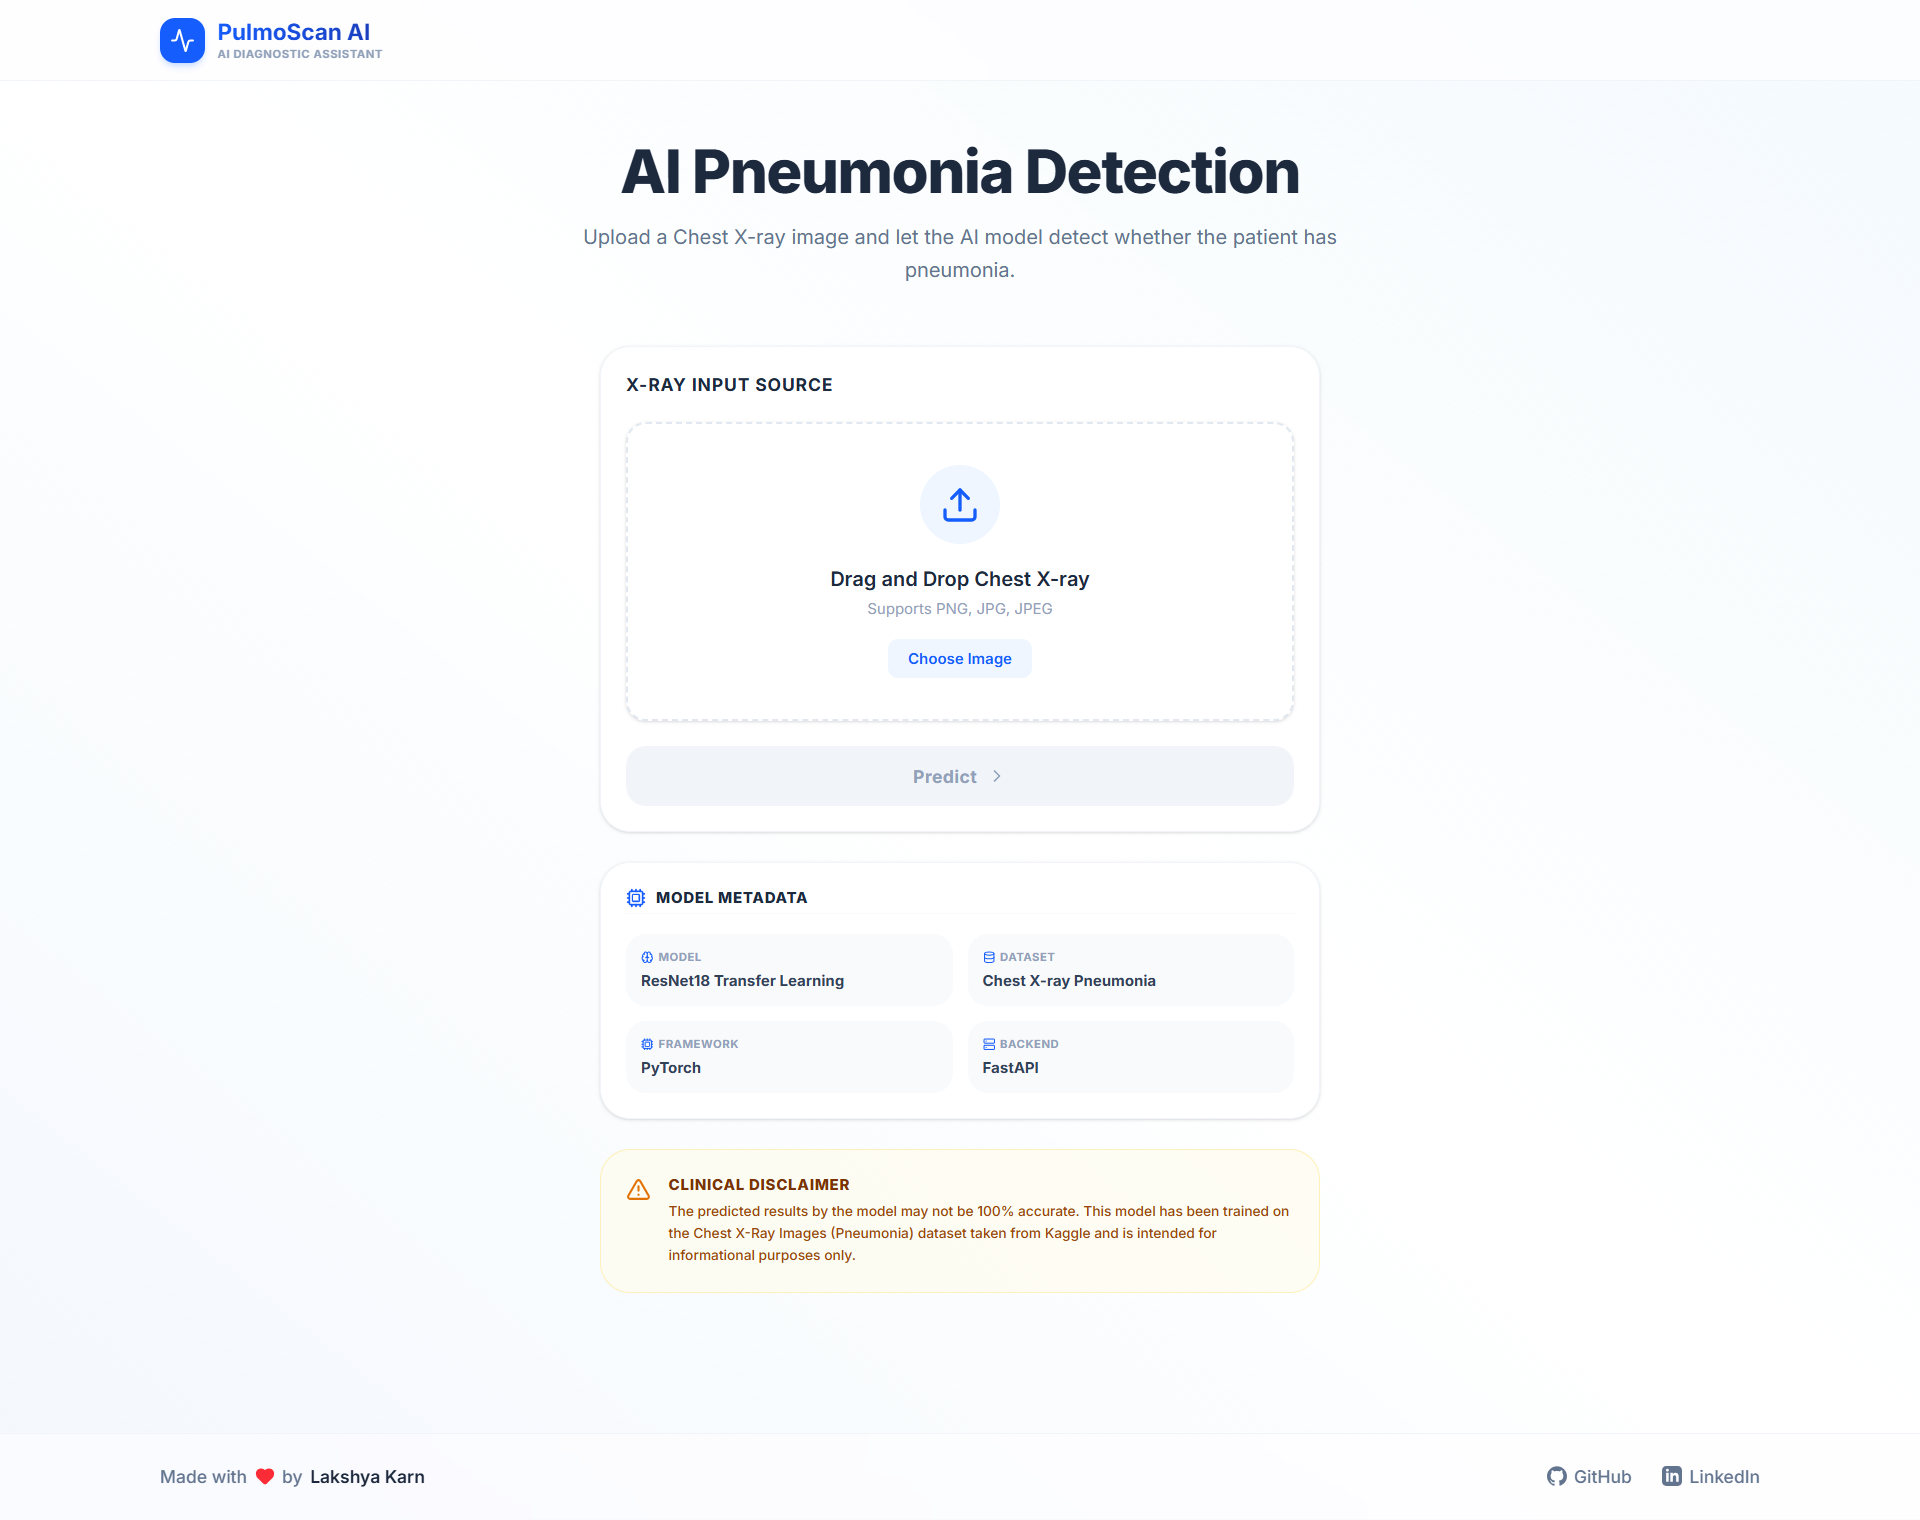
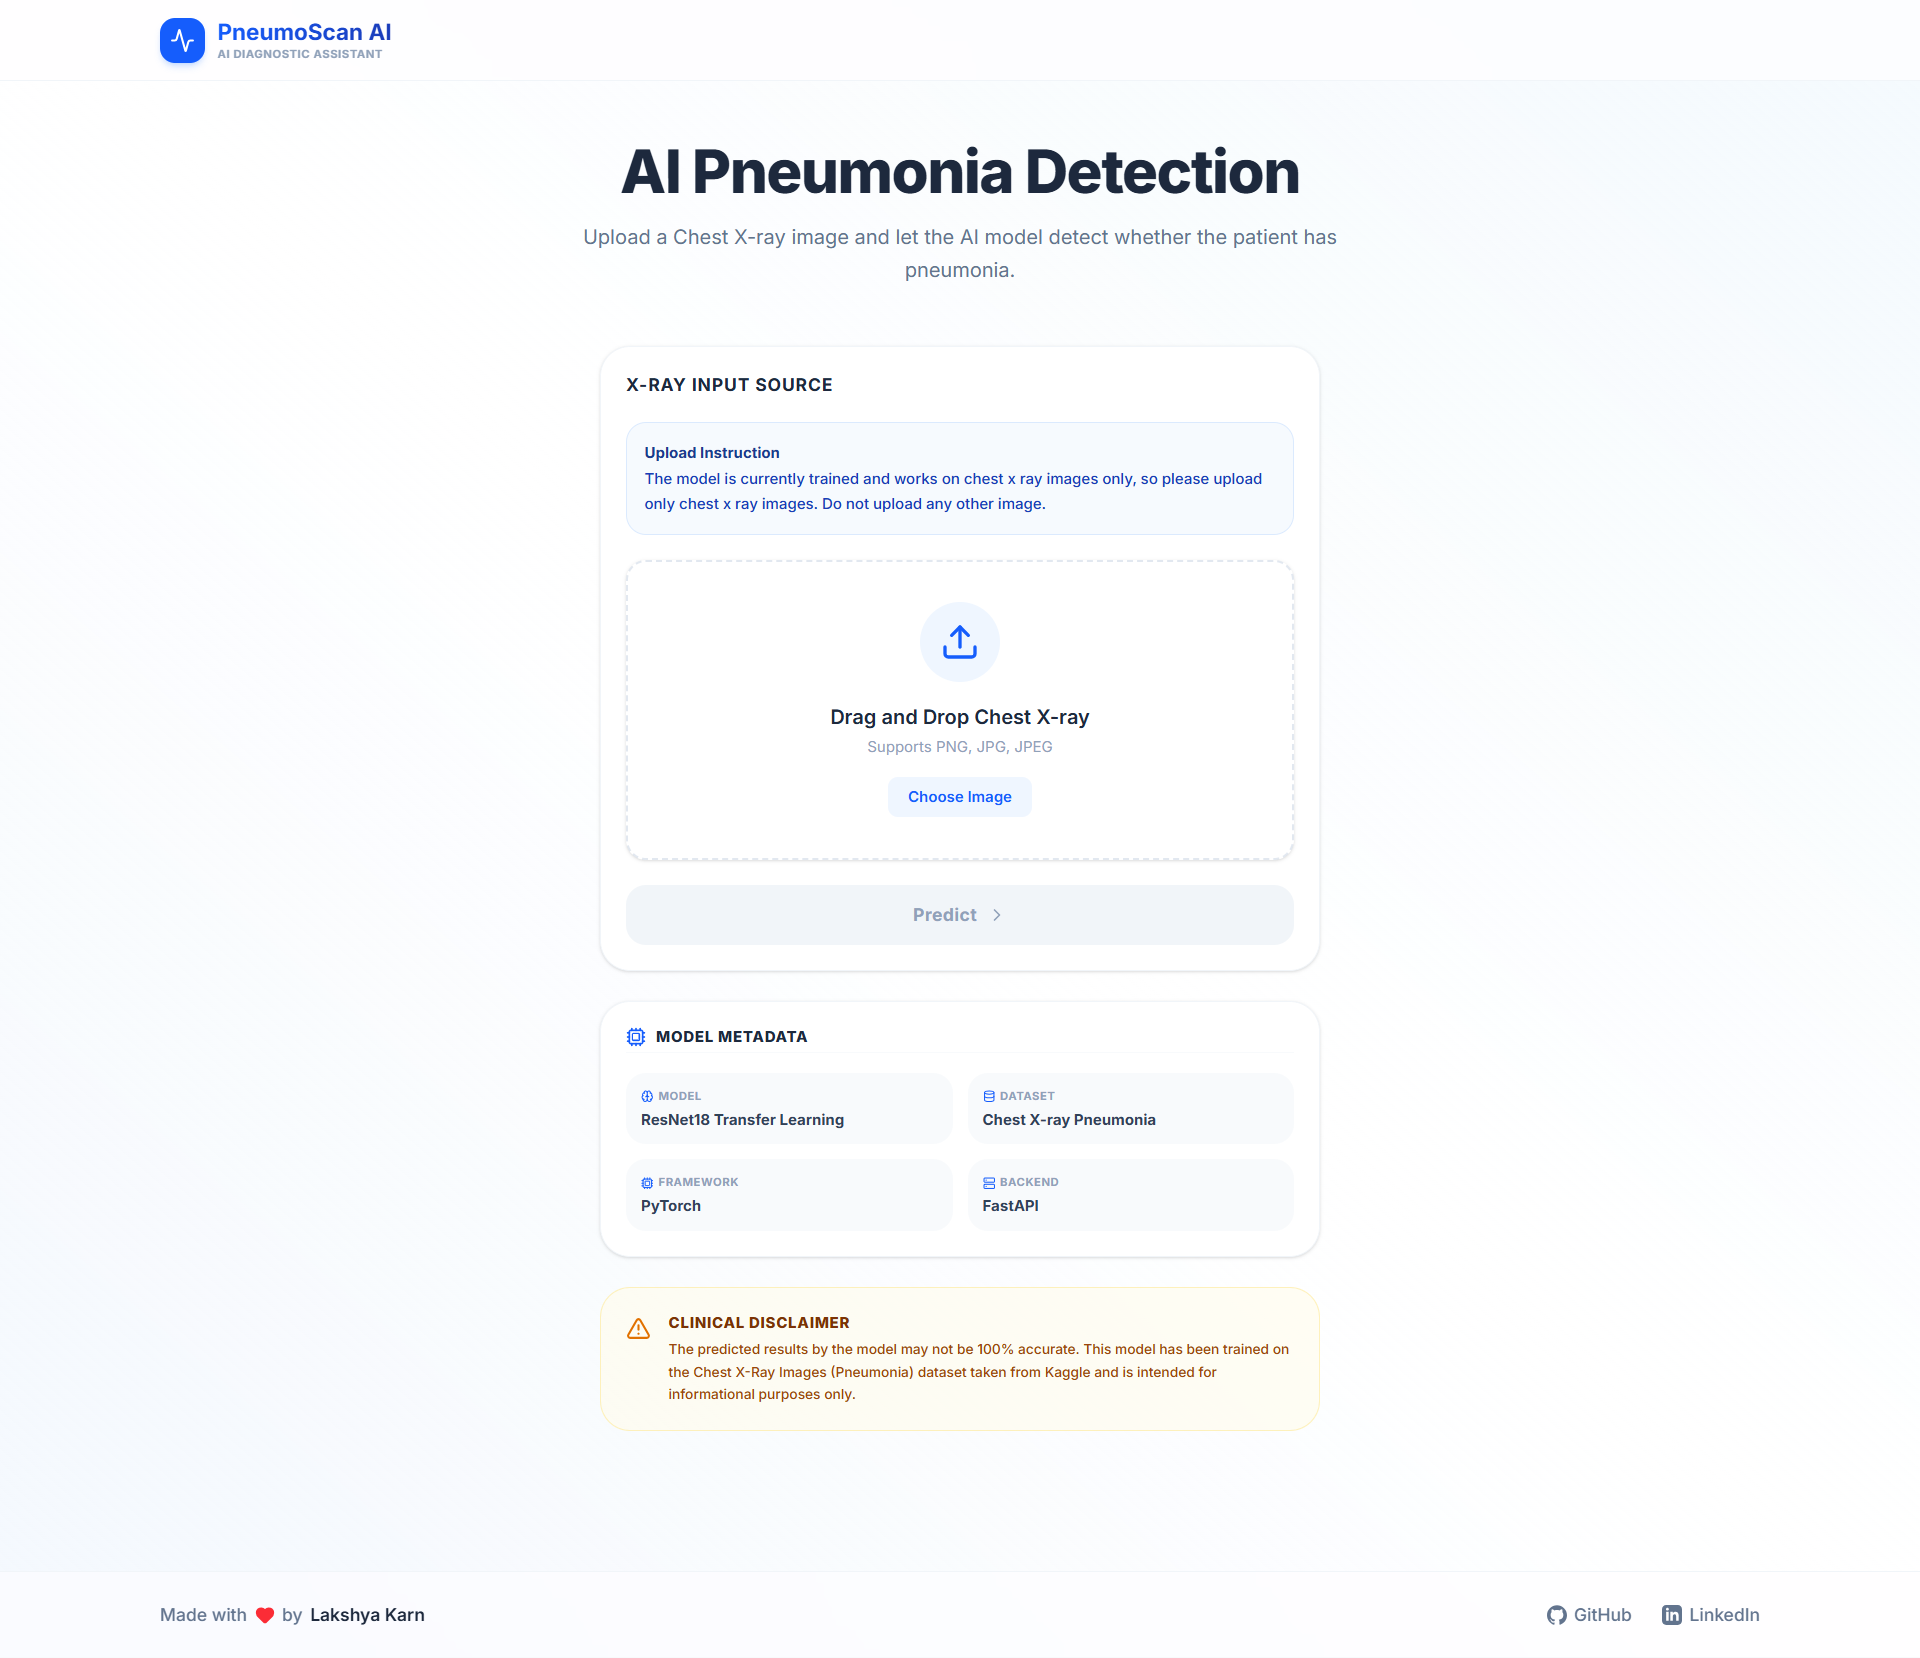
Done some changes

diff --git a/frontend/src/pages/Home.jsx b/frontend/src/pages/Home.jsx
@@ -88,6 +88,11 @@ export default function Home() {
             <h3 className="text-sm font-bold text-slate-800 uppercase tracking-wider">
               X-ray Input Source
             </h3>
+
+            <div className="bg-blue-50/50 border border-blue-100 rounded-2xl p-3.5 text-blue-800 text-xs leading-relaxed font-medium">
+              <span className="font-bold block mb-0.5 text-blue-900">Upload Instruction</span>
+              The model is currently trained and works on chest x ray images only, so please upload only chest x ray images. Do not upload any other image.
+            </div>
             
             <UploadBox
               selectedFile={selectedFile}

diff --git a/backend/app.py b/backend/app.py
@@ -14,7 +14,7 @@ app = FastAPI(
 
 app.add_middleware(
     CORSMiddleware,
-    allow_origins=["*"],      
+    allow_origins=["https://pneumo-scan.lakshyakarn.com.np","https://pneumo-scan-ai-phi.vercel.app"],      
     allow_credentials=True,
     allow_methods=["*"],
     allow_headers=["*"],